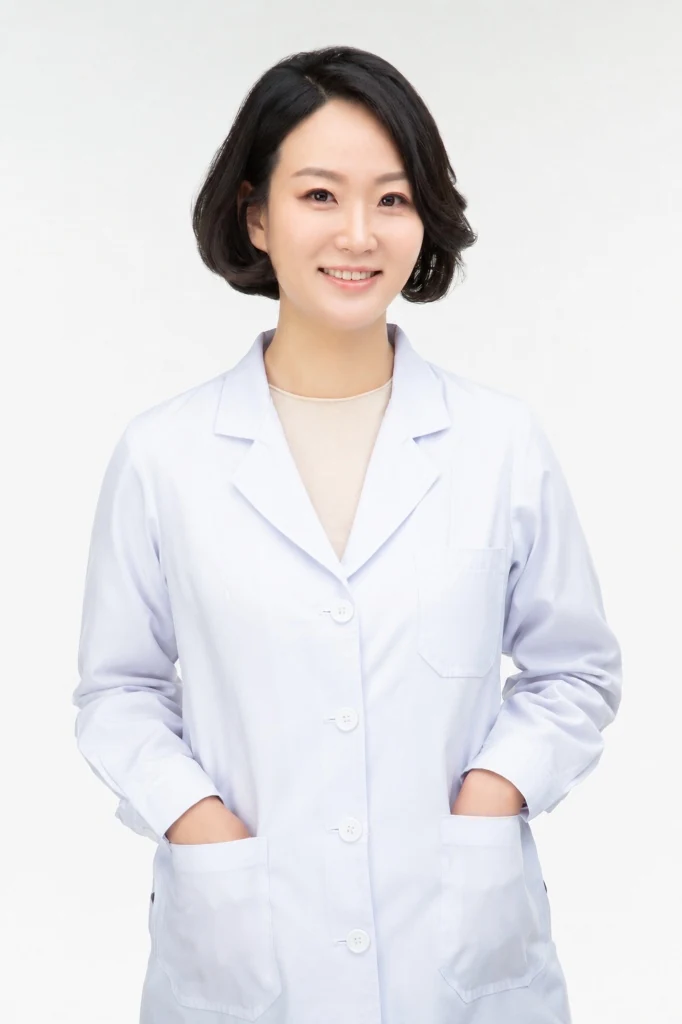
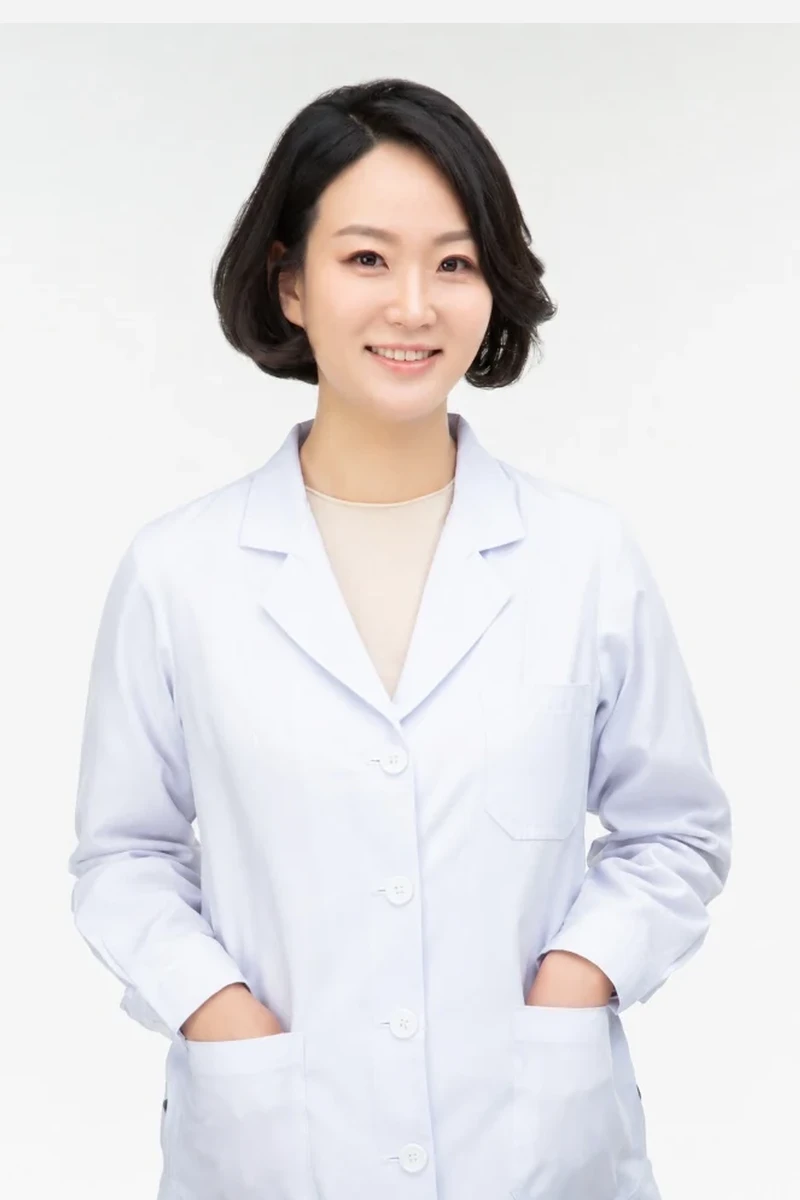
§M1~M4: 3인 프로필 사진 비율 통일(얼굴검출 재크롭)·권종진 이마잘림 수정·모바일 카드 짤림 반응형 개선·브랜드 서브색(블루/그린/화이트) 태그칩 적용

diff --git a/public/static/style.css b/public/static/style.css
@@ -39,14 +39,22 @@
   --gold-300: #c7a878;
   --gold-tint: #f1e9dc;
 
-  /* ---- 포인트 컬러 (S2 요청) — 네이비/골드 톤과 조화되는 절제된 블루·그린 ----
-     운용색(네이비·아이보리·베이지·골드)은 유지하고, 강조가 필요한 지점에만 포인트로 사용 */
-  --point-blue: #2f6d9e;      /* 차분한 미드 블루 (신뢰·의료) */
-  --point-blue-600: #245a84;  /* hover/딥 */
-  --point-blue-tint: #e8f1f8; /* 밝은 배경 틴트 */
-  --point-green: #3d8168;     /* 딥 세이지 그린 (안정·케어) */
-  --point-green-600: #316a55;
-  --point-green-tint: #e8f2ed;
+  /* ---- 브랜드 서브 컬러 (§M4 요청) — 블루·그린·화이트로 색감 다양화 ----
+     운용색(네이비·아이보리·베이지·골드)은 유지, 태그/칩 등 강조 지점에 서브색 적용 */
+  --brand-blue: #4a9cd6;      /* ★ 브랜드 블루 (신뢰·의료) */
+  --brand-blue-600: #3a83b8;  /* hover/딥 */
+  --brand-blue-tint: #e5f2fa; /* 밝은 배경 틴트 */
+  --brand-green: #67be8d;     /* ★ 브랜드 그린 (안정·케어) */
+  --brand-green-600: #4fa374;
+  --brand-green-tint: #e6f5ec;
+  --brand-white: #ffffff;     /* ★ 브랜드 화이트 (카드 대비·클린) */
+  /* alias (기존 point-* 참조 호환) */
+  --point-blue: var(--brand-blue);
+  --point-blue-600: var(--brand-blue-600);
+  --point-blue-tint: var(--brand-blue-tint);
+  --point-green: var(--brand-green);
+  --point-green-600: var(--brand-green-600);
+  --point-green-tint: var(--brand-green-tint);
 
   /* ---- 아이보리 / 웜베이지 (순백 #FFFFFF 사용 금지) ---- */
   --ivory: #fffeee;       /* ★ 페이지 기본 배경 */
@@ -1122,9 +1130,14 @@ em, i, cite, var, address, .italic, .hh-italic, .disp, .eng,
 .doc-body .doc-career::before { content: '\f559'; font-family: 'Font Awesome 6 Free'; font-weight: 900; font-size: 10px; opacity: .7; }
 .doc-tags { display: flex; flex-wrap: wrap; gap: 7px; }
 .doc-tags span {
-  font-size: 12px; padding: 5px 12px; background: var(--mint-tint); color: var(--mint-600);
-  border-radius: var(--radius-pill);
+  font-size: 12px; padding: 5px 12px; background: var(--gold-tint); color: var(--gold-600);
+  border-radius: var(--radius-pill); font-weight: 600;
 }
+/* §M4: 태그 칩 색감 다양화 — 블루·그린·골드·네이비 순환 */
+.doc-tags span:nth-child(4n+1) { background: var(--brand-blue-tint);  color: var(--brand-blue-600); }
+.doc-tags span:nth-child(4n+2) { background: var(--brand-green-tint); color: var(--brand-green-600); }
+.doc-tags span:nth-child(4n+3) { background: var(--gold-tint);        color: var(--gold-600); }
+.doc-tags span:nth-child(4n+4) { background: #eaf0f5;                 color: var(--navy-700); }
 
 /* ============================================================
    서브 진료 그리드
@@ -1766,6 +1779,10 @@ select.res-mini { background:#fff; }
   .enc-detail-grid { grid-template-columns: 1fr; gap: 40px; }
   .enc-aside { position: static; }
 }
+/* §M3: 태블릿~모바일 원장 3인 카드 — 850px 이하부터 2열(짤림/과압축 방지) */
+@media (max-width: 850px) {
+  .doc-grid { grid-template-columns: repeat(2, 1fr); gap: 20px; }
+}
 @media (max-width: 820px) {
   .gnb, .header-tel { display: none; }
   .burger { display: flex; }
@@ -1776,7 +1793,9 @@ select.res-mini { background:#fff; }
   .hero-row { flex-direction: column; align-items: flex-start; }
   .hero-top { padding-top: 92px; font-size: 11px; }
   .stats-grid { grid-template-columns: 1fr 1fr; gap: 36px 20px; }
-  .doc-grid { grid-template-columns: 1fr; }
+  /* §M3: 폰에서는 1열로 완전 스택 → 카드 짤림/과압축 방지, 사진·태그 여유롭게 */
+  .doc-grid { grid-template-columns: 1fr; gap: 22px; max-width: 460px; margin-inline: auto; }
+  .doc-photo { aspect-ratio: 4/4; }
   .tx-sub-grid { grid-template-columns: 1fr; }
   .value-grid { grid-template-columns: 1fr; }
   .value-card { border-right: none !important; }

diff --git a/src/data/clinic.ts b/src/data/clinic.ts
@@ -329,7 +329,7 @@ export const DOCTORS: Doctor[] = [
     // §B: 30년 임상 경험은 사실(자료1.docx)이므로 가능, 방송 이력은 비노출. 철학은 자료 원문
     intro: '오랜 경험으로, 환자분께 더 편안한 치료 방향을 제안하는 것을 목표로 합니다. 고려대학교 의과대학에서 약 30년간 구강악안면외과를 가르치고 진료해 왔으며, 이후 약수역 인근 지역에서 오래 환자를 돌봐 온 경험을 바탕으로 임플란트와 턱관절 분야에 깊이를 두고 있습니다. 2026년 4월 올케어치과에 합류해, 오래 다니신 환자분들의 진료 기록과 치료 이력을 그대로 이어 케어합니다. 환자분의 불편을 줄이고 오래 안정적으로 사용할 수 있는 치료를 지향합니다.',
     photo: '/static/img/kwon-jongjin.webp',
-    imgPos: 'object-position:center 22%',   // §S3: 얼굴이 큰 편 → 위쪽 여백 확보로 배수현 기준에 맞춤
+    imgPos: 'object-position:center top',   // §M1/M2: 3인 사진 얼굴검출 재크롭(800x1200)으로 얼굴크기·눈높이 통일 → object-position 공통값
     cardLine: '서울대학교 치의학박사 · 고려대학교 의과대학 명예교수',  // §D1: 카드 3번째 줄
   },
   {
@@ -367,7 +367,7 @@ export const DOCTORS: Doctor[] = [
     // §B 필터: 약점(심미/라미네이트) 노출 X → 강점(수술·외과·교수경력) 리프레이밍. 철학은 자료 원문
     intro: '어려운 치료도, 환자분이 이해하고 안심할 수 있게 설명하는 것을 목표로 합니다. 구강악안면외과 전문의로서 고난도 임플란트 수술, 매복 사랑니, 턱관절 등 외과 영역에 깊이를 두고, 경희대학교 치과병원 외래교수로 후학을 가르쳐 온 경험을 진료에 녹여냅니다. 통합치의학과 전문의 관점에서 입안 전체의 상태를 함께 살펴 오래 안정적인 치료를 지향하며, 환자가 두려워하는 진료일수록 더 차분하고 정밀하게 다가가고, 필요한 경우 의식하진정법(수면치료)을 병행해 불안과 부담을 줄입니다.',
     photo: '/static/img/kwon-minsu-profile.webp',
-    imgPos: 'object-position:center 12%',   // §S3/§2차수정: transform:scale 제거(모바일 렌더 깨짐 원인) → object-position만으로 배수현 기준 프레이밍. §D2: photo 필드 복구(누락으로 카드 빈칸 렌더되던 버그)
+    imgPos: 'object-position:center top',   // §M1: 얼굴검출 재크롭으로 통일 → 공통 프레이밍
     isHead: true,
   },
   {
@@ -392,7 +392,7 @@ export const DOCTORS: Doctor[] = [
     ],
     intro: '잘 씹고, 자연스럽게 웃을 수 있는 보철 치료를 하는 것을 목표로 합니다. 치과보철과 전문의로서 임플란트 보철, 틀니, 심미보철까지 기능과 심미성을 함께 고려하며, 원내 기공실의 상주 기공사와 직접 호흡을 맞춰 환자의 입에 가장 자연스럽게 어울리는 보철을 설계합니다. 외과·통합 진료와 한 팀으로 연결되어, 보철 이전 단계부터 마무리까지 흐름이 끊기지 않도록 합니다.',
     photo: '/static/img/bae-suhyeon.webp',
-    imgPos: 'object-position:center 20%',   // §S3: 기준(reference) 프레이밍
+    imgPos: 'object-position:center top',   // §M1: 재크롭 통일 후 공통값(기준)
   },
 ]
 

diff --git a/README.md b/README.md
@@ -91,7 +91,7 @@
 - **운영 시크릿(미설정, 추후 주입 예정)**: `ADMIN_PASSWORD`, `ADMIN_SESSION_SECRET`, `GOOGLE_CLIENT_ID`, `GOOGLE_CLIENT_SECRET`, `RESEND_API_KEY`, `NOTIFICATION_EMAIL` → `wrangler pages secret put <KEY> --project-name allcare-dental`
 - **남은 작업**: 운영 시크릿 주입(ADMIN_PASSWORD 등), GA4/서치콘솔/네이버 등록
 - **트래킹/통계**: GA4 `G-GW5BCWPZZ4` / 네이버 애널리틱스 `25670873e0f56c0`(wcs.pstatic.net) / 네이버 소유확인 2건(`549621…`+`8904bf63…`) / **Meta 픽셀 `918552201020610`** — 공통 `PageView`, 세부페이지(`/treatments|encyclopedia|doctors|column|events|notice/:slug`) 자동 `Lead_custom`, 예약·문의 버튼 클릭 이벤트 위임(`Contact_custom`+`Contact_tel|kakao|naver`, 폼 제출 시 `Contact_custom`). 값은 모두 `clinic.ts`의 `analytics`/`siteVerification`에서 관리.
-- **최종 업데이트**: 2026-08-14 (5차 재검증 + 미세조정: N1~N3·N7은 4차에서 이미 반영·프로덕션 정상 확인(권종진 서울대졸업/박사·고려대의대명예교수 · 권민수 사진 파일/경로 200 OK · 상세 경력·수련→학력 순서 · 칼럼 카테고리). ⑤N5 기공실 첫 셀 캡션 "CAD 보철 설계 — 디지털 디자인"→"디지털 디자인" 단순화. ⑥N6 공지 팝업 배지 재개편 — "노출중"=초록(#1f7a3d, 활성상태 직관화)+벨아이콘 / "만료"=톤다운 베이지(기존 골드+크림 저대비 개선). ▶미완: N4 02 CONTINUITY '건물 배경 두 원장 사진' + N5 기공실 교체 사진 — 업로드 자료(PPT 1~3)에 해당 원본 없음, 사용자에게 이미지 파일 별도 수령 필요) / 2026-08-13 (4차 수정: ①권민수 대표원장 프로필 사진 안보임 버그 해결 — `photo:` 필드 누락 복구(카드 빈칸 렌더링 원인) ②의료진 상세 순서 변경 — 경력·수련을 학력 위로, "레지던트 수련"→"레지던트" 표기 통일 ③권종진 명예원장 카드 3번째 줄 "서울대학교 치의학박사 · 고려대학교 의과대학 명예교수"로 갱신(cardLine) ④02 CONTINUITY OF CARE — 요청 본문 반영 + 사진을 인물+건물배경 버전으로 교체 ⑤원내 디지털 기공실 — CAD설계·디지털스캔 사진 교체(3Shape/구강스캔) ⑥공지사항 팝업 "노출중" 배지 색상 초록→브랜드 골드 ⑦칼럼 진료 카테고리 개편 — 심미보철→심미치료, "레진·인레이"·"올케어 소식" 신설(칼럼 전용 카테고리 분리)) / 2026-08-13 (3차 수정: ①이벤트 팝업 이미지 A4잘림 해결(cover→contain, 세로포스터 전체노출) ②권민수 대표원장 프로필 사진 깨짐 해결(transform:scale 제거→object-position만) ③홈 타이틀 "수면치료" 추가 ④S6 CONTINUITY 사진 반영 완료 — 권종진·권민수 두 세대 진료 이미지(구글드라이브 수령), 약력 잘림방지 contain) / 2026-08-11 (Meta 픽셀 설치 + GA4·네이버 애널리틱스·네이버 소유확인 추가 태그 반영) / 2026-08-10 (PPTX 3차 S2~S11 반영: 히어로 행간·여백 확대(S2) / 의료진 프로필 사진 배수현 기준 사이즈 통일 — `imgPos` scale(S3) / 문단 줄바꿈 헬퍼 `br-pc`·`br-mo` + `word-break:keep-all`(S4) / 진료시간·휴게시간 점심12:30-14:00·저녁17:30-18:00·토일공휴일 점심X(S5·S11) / 예약완료 '전화하기' 골드 버튼(S7) / 공지 ※중요 강조(S8) / "남성 환자분" 표기(S9) / sitemap 점검 OK(S10))
+- **최종 업데이트**: 2026-08-15 (6차 수정 M1~M4: ①M1 3인 프로필 사진 비율 통일 — OpenCV 얼굴검출로 눈높이·얼굴크기(캔버스 대비 ~18%)·헤드룸 정렬, 배수현 기준 800×1200(2:3) 재크롭 후 교체(kwon-jongjin/kwon-minsu-profile/bae-suhyeon.webp), imgPos 전부 `object-position:center top` 공통값 단순화 ②M2 권종진 명예원장 사진 이마 잘림 해결 — 상반신 원본 배경 패딩 + 얼굴크기 축소 재크롭(PC·모바일 공통), 카드 object-fit:cover가 하단 여백 크롭 ③M3 모바일 원장 3인 카드 짤림/과압축 해결 — 반응형 그리드 재정비(≤1080 2열 / ≤850 2열 / ≤820 1열 max-width 460px 센터정렬 + 폰 사진비율 4/4) ④M4 브랜드 서브색 도입 — 블루 #4A9CD6·그린 #67BE8D·화이트 #FFFFFF를 CSS 변수(--brand-blue/green/white)로 추가, 태그·칩(.doc-tags·.tag-pill·.tag-green·.collab-chip)에 블루/그린/골드/네이비 순환 적용) / 2026-08-14 (N8 수면치료 문구 보수화: hero \"편안한 가수면 상태에서 진료를 진행합니다\" + 사전문진·전신 스크리닝·응급대응장비(AED·응급키트)·전문의 직접확인 강조) / 2026-08-14 (5차 재검증 + 미세조정: N1~N3·N7은 4차에서 이미 반영·프로덕션 정상 확인(권종진 서울대졸업/박사·고려대의대명예교수 · 권민수 사진 파일/경로 200 OK · 상세 경력·수련→학력 순서 · 칼럼 카테고리). ⑤N5 기공실 첫 셀 캡션 "CAD 보철 설계 — 디지털 디자인"→"디지털 디자인" 단순화. ⑥N6 공지 팝업 배지 재개편 — "노출중"=초록(#1f7a3d, 활성상태 직관화)+벨아이콘 / "만료"=톤다운 베이지(기존 골드+크림 저대비 개선). ▶미완: N4 02 CONTINUITY '건물 배경 두 원장 사진' + N5 기공실 교체 사진 — 업로드 자료(PPT 1~3)에 해당 원본 없음, 사용자에게 이미지 파일 별도 수령 필요) / 2026-08-13 (4차 수정: ①권민수 대표원장 프로필 사진 안보임 버그 해결 — `photo:` 필드 누락 복구(카드 빈칸 렌더링 원인) ②의료진 상세 순서 변경 — 경력·수련을 학력 위로, "레지던트 수련"→"레지던트" 표기 통일 ③권종진 명예원장 카드 3번째 줄 "서울대학교 치의학박사 · 고려대학교 의과대학 명예교수"로 갱신(cardLine) ④02 CONTINUITY OF CARE — 요청 본문 반영 + 사진을 인물+건물배경 버전으로 교체 ⑤원내 디지털 기공실 — CAD설계·디지털스캔 사진 교체(3Shape/구강스캔) ⑥공지사항 팝업 "노출중" 배지 색상 초록→브랜드 골드 ⑦칼럼 진료 카테고리 개편 — 심미보철→심미치료, "레진·인레이"·"올케어 소식" 신설(칼럼 전용 카테고리 분리)) / 2026-08-13 (3차 수정: ①이벤트 팝업 이미지 A4잘림 해결(cover→contain, 세로포스터 전체노출) ②권민수 대표원장 프로필 사진 깨짐 해결(transform:scale 제거→object-position만) ③홈 타이틀 "수면치료" 추가 ④S6 CONTINUITY 사진 반영 완료 — 권종진·권민수 두 세대 진료 이미지(구글드라이브 수령), 약력 잘림방지 contain) / 2026-08-11 (Meta 픽셀 설치 + GA4·네이버 애널리틱스·네이버 소유확인 추가 태그 반영) / 2026-08-10 (PPTX 3차 S2~S11 반영: 히어로 행간·여백 확대(S2) / 의료진 프로필 사진 배수현 기준 사이즈 통일 — `imgPos` scale(S3) / 문단 줄바꿈 헬퍼 `br-pc`·`br-mo` + `word-break:keep-all`(S4) / 진료시간·휴게시간 점심12:30-14:00·저녁17:30-18:00·토일공휴일 점심X(S5·S11) / 예약완료 '전화하기' 골드 버튼(S7) / 공지 ※중요 강조(S8) / "남성 환자분" 표기(S9) / sitemap 점검 OK(S10))
   - ✅ **S6 CONTINUITY OF CARE**: 문구 + 사진 모두 반영 완료 (사진: `continuity-two-doctors.webp`, `/mission` 페이지 02 Continuity of Care 섹션)
 - **이전 업데이트**: 2026-06-24 (상호 정리 / 서체 명조 절제 / 병원소개 재구성 / 섹션 번호 재정렬)
   - ⚠ **미해결**: SNS 핸들 `365allcare`(인스타)·`365allcaredc`(블로그)는 실제 계정 주소라 미변경 — 새 계정 주소 확정 시 `src/data/clinic.ts`의 `sns.instagram`/`sns.blog` 교체 필요
